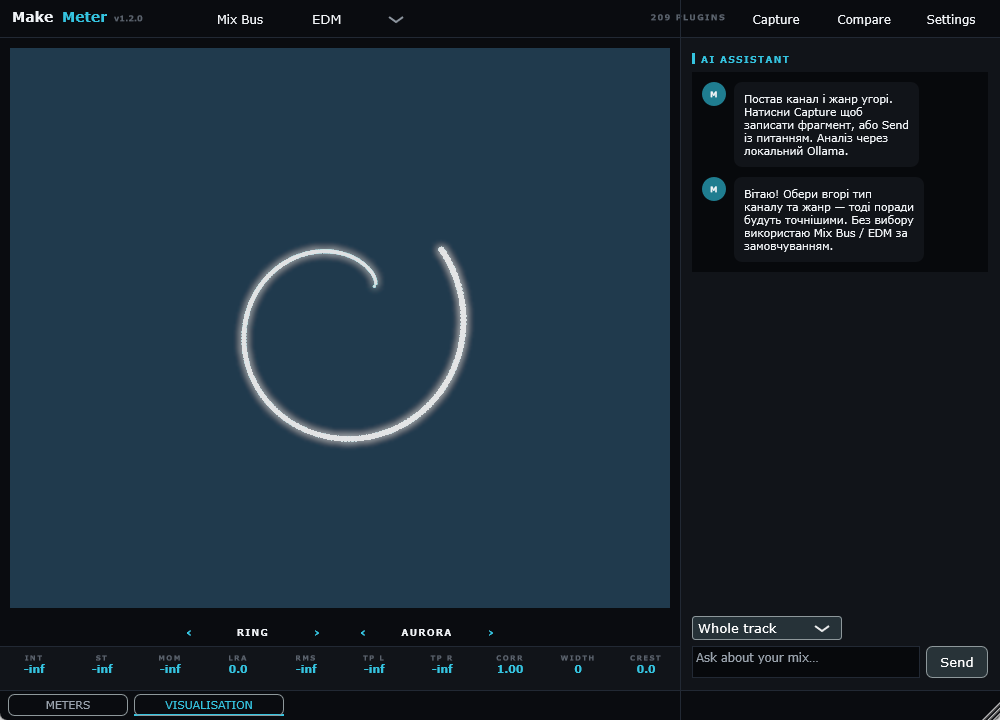
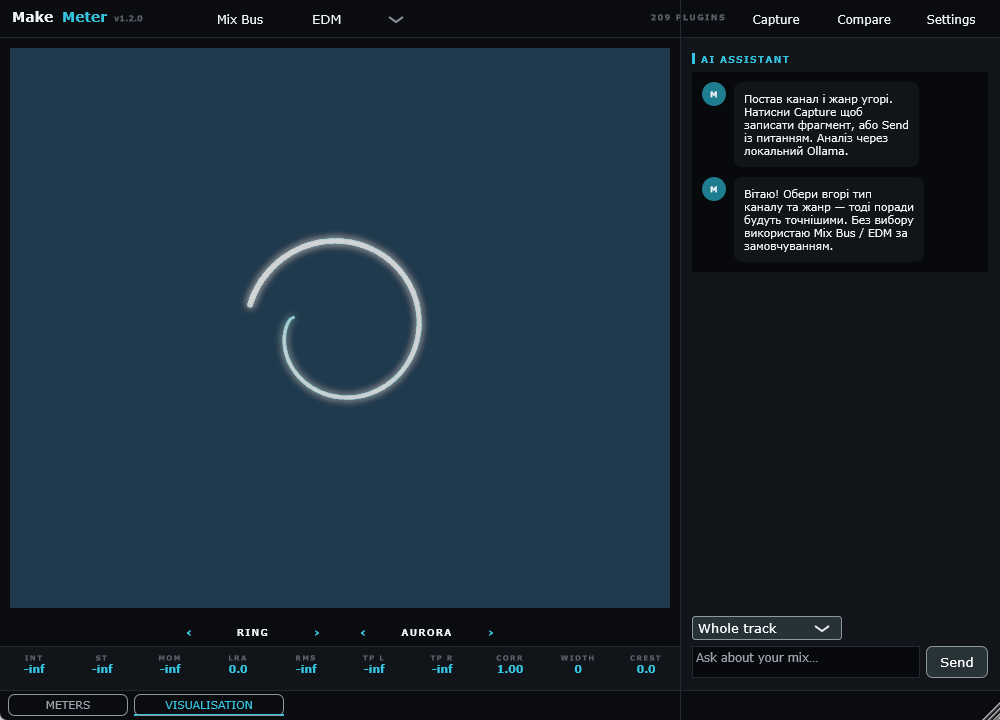
Visualiser tuning: keep theme hue, less white blow-out
Bias the particle colour mix with e*e (white core only on peaks), lower
per-particle brightness, drop composite exposure to 0.8 and raise bloom to
1.25 so the theme colour survives the additive stack instead of clipping to
white. Refresh the docs screenshot.

Changed region(s): [[0.217, 0.3056, 0.496, 0.6417]]

diff --git a/Source/GLVisualiser.cpp b/Source/GLVisualiser.cpp
@@ -22,7 +22,9 @@ void main()
     gl_Position  = vec4 (aPos * uAspect * uPulse, 0.0, 1.0);
     gl_PointSize = aSize * uScale * uPulse;
     float e = clamp (aEnergy, 0.0, 1.0);
-    vCol = mix (uColParticle, uColCore, e) * (e * 1.8);   // -> 0 as the particle fades
+    // e*e keeps most particles at the theme colour; the white-ish core only shows on the hottest.
+    // Modest per-particle brightness so dense stacks don't clip G/B to white (theme hue survives).
+    vCol = mix (uColParticle, uColCore, e * e) * (e * 0.9);   // -> 0 as the particle fades
 }
 )";
 
@@ -430,7 +432,7 @@ void GLVisualiser::renderOpenGL()
     glActiveTexture (GL_TEXTURE1); glBindTexture (GL_TEXTURE_2D, bloomFbo0.getTextureID());
     compositeProg->setUniform ("uBloom", (GLint) 1);
     compositeProg->setUniform ("uBloomIntensity", 1.25f);
-    compositeProg->setUniform ("uExposure", 1.15f);
+    compositeProg->setUniform ("uExposure", 0.80f);   // less blow-out -> theme hue survives; bloom carries the glow
     compositeProg->setUniform ("uBg", f.bg[0], f.bg[1], f.bg[2]);
     drawFullscreen();
     glActiveTexture (GL_TEXTURE0);